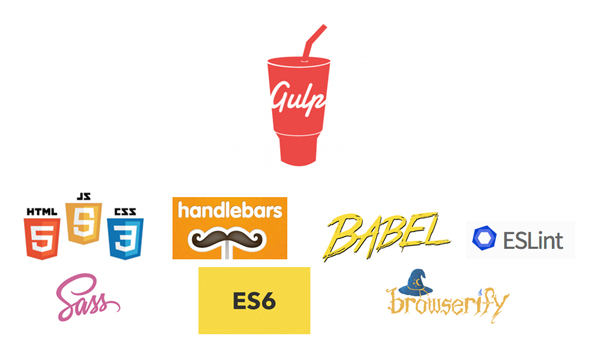
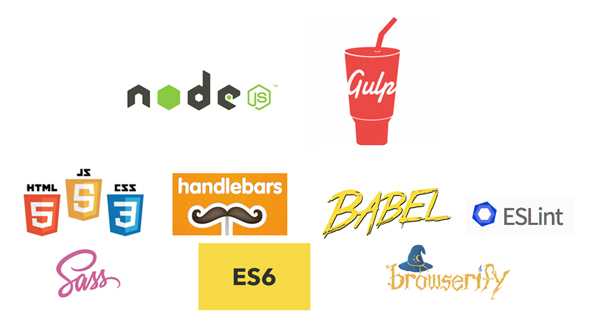
Adding technologies image to readme

diff --git a/README.md b/README.md
@@ -1,5 +1,5 @@
 <p align="center">
-    <img height="350" width="590" src="https://raw.githubusercontent.com/jpgcode/gulp-starterkit/master/gulp-sk.jpg">
+    <img height="326" width="590" src="https://raw.githubusercontent.com/jpgcode/gulp-starterkit/master/gulp-sk.jpg">
 </p>
 
 # Gulp Starter Kit
